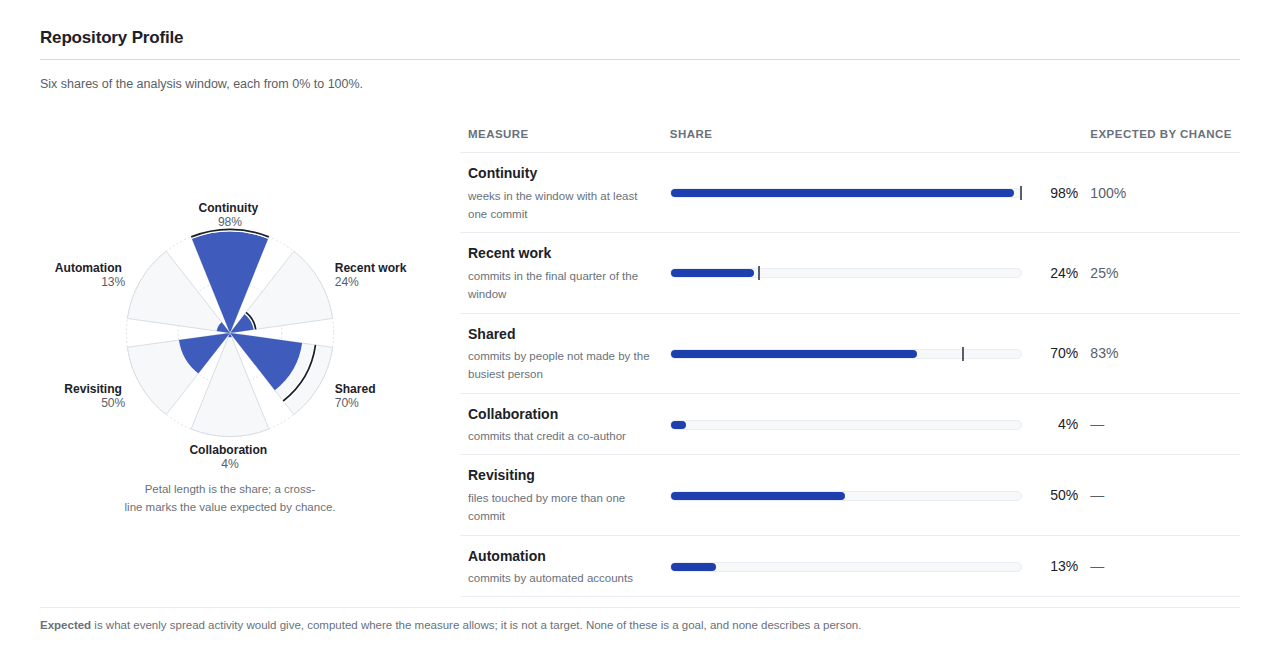
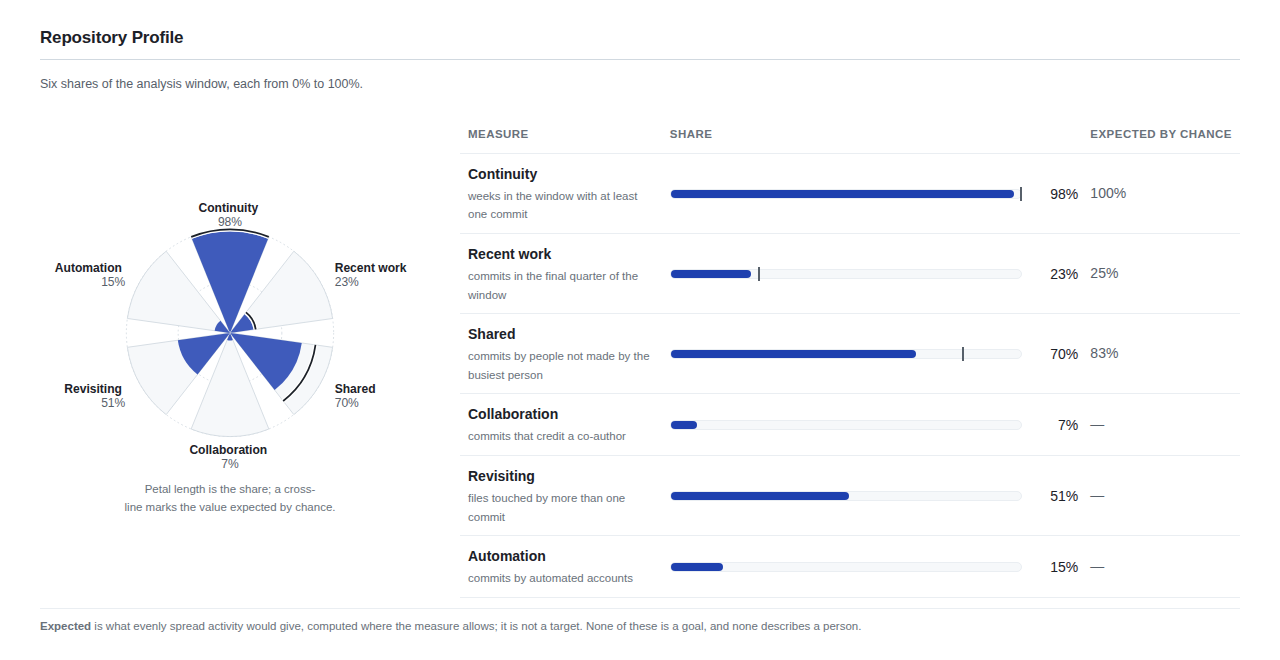
docs(images): a sample history with deletions, and the new report
- make_sample_repository.py: most commits now remove lines as well as
  add them, each line distinct so Git counts both; the README images had
  shown 0 lines deleted for everyone
- report and profile images retaken from it with --deterministic, light
  and dark; README alt text names the commit line and contents list
- CHANGELOG and USER_GUIDE describe the header, footer, print, heatmap
  axis and table changes

diff --git a/docs/images/make_sample_repository.py b/docs/images/make_sample_repository.py
@@ -94,8 +94,17 @@ def build(target: Path) -> int:
                 area = target / rng.choice(AREAS)
                 area.mkdir(parents=True, exist_ok=True)
                 suffix = rng.choice((".py", ".py", ".ts", ".md", ".yml"))
-                with (area / f"part{rng.randint(1, 9)}{suffix}").open("a", encoding="utf-8") as f:
-                    f.write("line\n" * rng.randint(1, 160))
+                path = area / f"part{rng.randint(1, 9)}{suffix}"
+                lines = path.read_text(encoding="utf-8").splitlines(True) if path.exists() else []
+                # Most changes also remove lines, so the report shows deletions as a
+                # real history does. Each line is distinct, or Git would read a
+                # removed line and an added one as no change.
+                if lines and rng.random() < 0.6:
+                    cut = rng.randint(1, max(1, len(lines) // 3))
+                    start = rng.randint(0, len(lines) - cut)
+                    del lines[start : start + cut]
+                lines += [f"line {made}.{i}\n" for i in range(rng.randint(1, 160))]
+                path.write_text("".join(lines), encoding="utf-8")
             made += 1
             stamp = (
                 day + datetime.timedelta(hours=rng.randint(0, 8), minutes=made % 60)

diff --git a/CHANGELOG.md b/CHANGELOG.md
@@ -63,7 +63,10 @@ before release.
   third-party licence notices, some of which name their authors with addresses, are unchanged;
   `provenance.emails_hidden` records it.
 - **In the report:** a "Read Before Using These Figures" panel on how the figures can mislead, and a
-  "Third-party licences" section.
+  "Third-party licences" section. The header names the commit the figures describe, a contents
+  list links each section, and the footer gives the Reveille version, when the report was
+  generated and from which commit. Printed, each A4 sheet is numbered "Page N of M", and a table
+  row, a finding or the caveats panel is not split across two sheets.
 - **In JSON:** the merge commits left out (`merge_commits_excluded`); `reveille_version` in the
   `summary`, `state`, `brief`, `who-changed` and `repos` documents; `analysed_commit` in
   `who-changed`; `automated` for each contributor in `generate` JSON and CSV (CSV's last column),
@@ -117,6 +120,9 @@ before release.
 - **A warning reads "Warning: ...", as the CLI's own do.** It was "WARNING
   reveille.adapters.git_reader: ...", naming the module that wrote it; a DEBUG line from
   `--verbose` still names it.
+- **The heatmap's axis names the months**, one label at the week each month begins, where it
+  gave every week's date, rotated. **The contributor table shows lines added and deleted as plain
+  counts**; only net lines carry a sign and a colour.
 - **Progress off a terminal** is one plain line per stage. A dark-mode reader no longer sees the
   report light first.
 - **`schema_version` is 1.3.** The brief is a new document and the others gain fields; every 1.1

diff --git a/README.md b/README.md
@@ -16,7 +16,7 @@ history.
 
 <picture>
   <source media="(prefers-color-scheme: dark)" srcset="https://raw.githubusercontent.com/varaprasadchilakanti/reveille/main/docs/images/report-dark.png">
-  <img src="https://raw.githubusercontent.com/varaprasadchilakanti/reveille/main/docs/images/report-light.png" width="860" alt="The top of a Reveille report for a sample repository with invented contributors: the report's statement of its own limits, five summary figures with a note that one automated account is counted in the totals but not as a person, a box of what to read before using the figures, four findings in plain sentences, and a Lorenz curve of how commits are spread across six people.">
+  <img src="https://raw.githubusercontent.com/varaprasadchilakanti/reveille/main/docs/images/report-light.png" width="860" alt="The top of a Reveille report for a sample repository with invented contributors: the branch, commit and period it describes, the report's statement of its own limits, a list of its sections, five summary figures with a note that one automated account is counted in the totals but not as a person, a box of what to read before using the figures, four findings in plain sentences, and a Lorenz curve of how commits are spread across six people.">
 </picture>
 
 *A report for a sample repository with invented contributors, built by

diff --git a/docs/USER_GUIDE.md b/docs/USER_GUIDE.md
@@ -640,7 +640,9 @@ without it `rank` is table order only. Each JSON contributor carries `automated`
 **HTML** is one self-contained file of about 1.7 MB, most of it the embedded chart library (the
 plotly.js cartesian bundle, pinned) and its third-party licences, which the report carries in a
 collapsed section after its footer: 1.69 MB for a one-commit repository and 1.70 MB for this one
-(measured 2026-10-18; 0.9.0's reports were 4.9 MB).
+(measured 2026-10-18; 0.9.0's reports were 4.9 MB). Its header names the branch, the commit and
+the period the figures describe, and its footer the Reveille version that made it and when, so a
+report passed on can be checked against the repository. Printed, it fits A4 with numbered pages.
 
 ---
 
